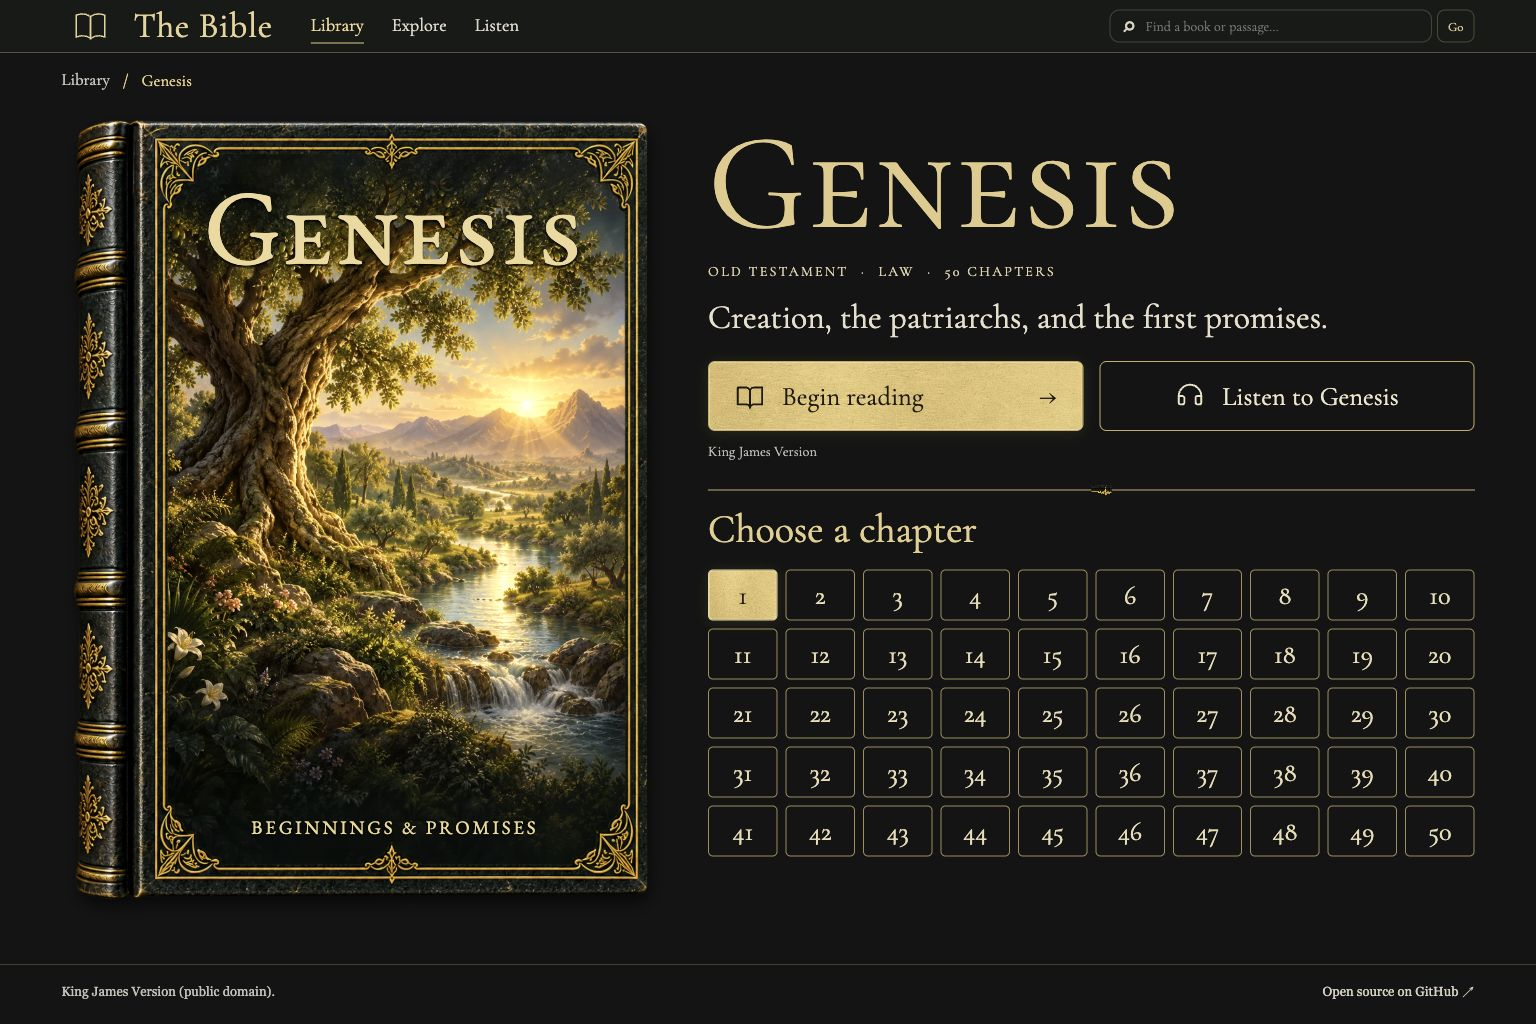
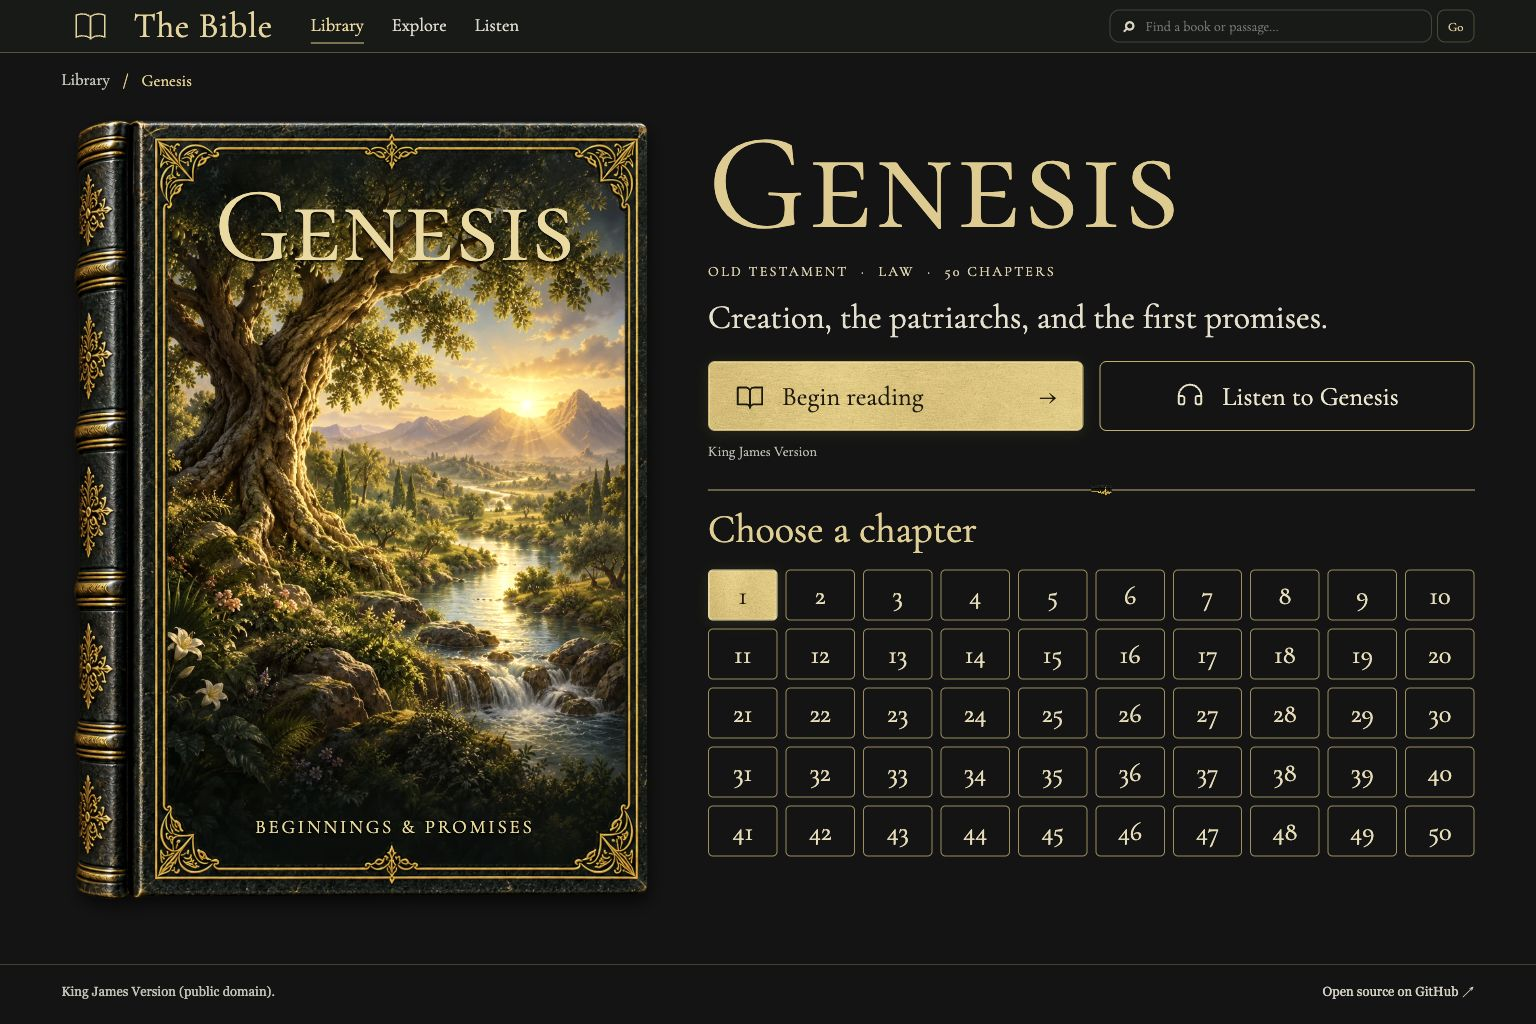
Fit every cover title with measured display-font advances

Changed region(s): [[0.125, 0.1875, 0.375, 0.2812], [0.1562, 0.7812, 0.3438, 0.8125]]

diff --git a/web/style.css b/web/style.css
@@ -242,3 +242,7 @@ body:has(.library-page),body:has(.book-page){background:#121413;color:#e9e2d4}.l
 .library-card .cover-title.medium-title,.book-volume .cover-title.medium-title{font-size:13.5cqw}.library-card .cover-title.long-title{font-size:10.5cqw}.book-volume .cover-title.long-title{font-size:10cqw}.book-title.medium-title{font-size:clamp(3.8rem,7.7vw,7.4rem)}
 @media(max-width:760px){.book-title.medium-title{font-size:clamp(2.5rem,10vw,4rem)}}
 .book-volume .cover-title.medium-title{font-size:13cqw}
+/* The insert width is fixed; title fitting uses measured glyph advances, not character count alone. */
+.book-volume .cover-title,.book-volume .cover-tagline{font-family:'Bible Display',Georgia,serif}
+.library-card .cover-title{font-size:min(16cqw,calc(69.5cqw / var(--cover-word-em,6)))}.library-card .cover-title.medium-title{font-size:min(13.5cqw,calc(69.5cqw / var(--cover-word-em,6)))}.library-card .cover-title.long-title{font-size:min(10.5cqw,calc(69.5cqw / var(--cover-word-em,6)))}
+.book-volume .cover-title{font-size:min(18cqw,calc(69.5cqw / var(--cover-word-em,6)))}.book-volume .cover-title.medium-title{font-size:min(13cqw,calc(69.5cqw / var(--cover-word-em,6)))}.book-volume .cover-title.long-title{font-size:min(10cqw,calc(69.5cqw / var(--cover-word-em,6)))}

diff --git a/src/library.rs b/src/library.rs
@@ -371,6 +371,19 @@ const CATEGORIES: &[(&str, &str)] = &[
     ("apocalyptic", "Apocalyptic"),
 ];
 
+// Measured longest-word em advances for the locally hosted display font.
+// Recalibrate with assets/imagegen/binding-typography.json if the typeface changes.
+const COVER_WORD_EM: [f64; 66] = [
+    3.394201, 3.244800, 4.234000, 3.985400, 6.275200, 3.117400, 2.970600, 2.404200, 3.328600,
+    3.328600, 2.537200, 2.537200, 5.276800, 5.276800, 2.142000, 4.560600, 3.135401, 1.441600,
+    3.128000, 4.159001, 5.703000, 4.046799, 2.849000, 4.066800, 6.308000, 3.319400, 3.107800,
+    2.826400, 1.886000, 2.418800, 3.970800, 2.725000, 2.923400, 3.249400, 4.694200, 4.882800,
+    3.362200, 4.922400, 3.963800, 4.264400, 2.528400, 2.175000, 2.150800, 2.188400, 3.514200,
+    5.757200, 5.757200, 4.706000, 4.427401, 5.119001, 5.051600, 6.648600, 6.648600, 3.865600,
+    3.865600, 2.434000, 4.340000, 3.936401, 2.489000, 2.575400, 2.575400, 2.150800, 2.150800,
+    2.150800, 1.991600, 5.185400,
+];
+
 fn selected(value: &str, current: &str) -> &'static str {
     if value == current {
         " selected"
@@ -487,7 +500,8 @@ pub(super) fn render_book(index: usize, client: bool) -> String {
         .expect("serializable KJV verses")
         .replace('<', "\\u003c");
     let mut html = format!(
-        r#"<section class="book-page" data-book-page data-book="{name}"><nav class="book-breadcrumb" aria-label="Breadcrumb"><a href="{home}">Library</a><span aria-hidden="true">/</span><span aria-current="page">{name}</span></nav><div class="book-layout"><div class="book-artwork"><div class="book-cover book-volume" role="img" aria-label="Illustrated {name} book cover"><img class="cover-art" src="/art/covers/{slug}.webp" alt="" width="768" height="1152" fetchpriority="high"><img class="cover-binding" src="/art/book-binding.webp" alt="" aria-hidden="true" width="1080" height="1440"><span class="cover-title{title_class}">{name}</span><span class="cover-tagline">{tagline}</span></div></div><div class="book-overview"><h1 class="book-title{title_class}">{name}</h1><p class="book-metadata">{testament} <span>·</span> {category} <span>·</span> {count} {chapter_word}</p><p class="book-introduction">{description}</p><div class="book-audio" data-read-aloud data-book-audio data-reference="{name}"><div class="book-actions"><a class="book-begin" href="{first}">{read_icon}<span>Begin reading</span><span aria-hidden="true">→</span></a><button type="button" class="book-listen" data-audio-action="play">{listen_icon}<span data-audio-label>Listen to {name}</span></button></div><p class="book-version">King James Version</p><div class="book-playback-settings" hidden><p data-audio-status role="status" aria-live="polite">Ready. Reads the KJV text only.</p><div class="book-playback-actions"><button type="button" data-audio-action="pause">Pause</button><button type="button" data-audio-action="stop">Stop</button><label>Speed<select data-audio-rate aria-label="Speech speed"><option value="0.75">0.75×</option><option value="1" selected>1×</option><option value="1.25">1.25×</option><option value="1.5">1.5×</option></select></label><label>Voice<select data-audio-voice aria-label="Voice"><option value="">Device default</option></select></label></div><small>Synthetic device voice. Reads Scripture only, from chapter 1 to the end of the book.</small></div><script type="application/json" data-book-scripture>{speech}</script></div><section class="book-chapters" aria-labelledby="chapter-heading"><h2 id="chapter-heading">Choose a chapter</h2><nav class="chs book-chapter-grid" aria-label="{name} chapters">"#,
+        r#"<section class="book-page" data-book-page data-book="{name}"><nav class="book-breadcrumb" aria-label="Breadcrumb"><a href="{home}">Library</a><span aria-hidden="true">/</span><span aria-current="page">{name}</span></nav><div class="book-layout"><div class="book-artwork"><div class="book-cover book-volume" role="img" aria-label="Illustrated {name} book cover"><img class="cover-art" src="/art/covers/{slug}.webp" alt="" width="768" height="1152" fetchpriority="high"><img class="cover-binding" src="/art/book-binding.webp" alt="" aria-hidden="true" width="1080" height="1440"><span class="cover-title{title_class}" style="--cover-word-em:{word_em}">{name}</span><span class="cover-tagline">{tagline}</span></div></div><div class="book-overview"><h1 class="book-title{title_class}">{name}</h1><p class="book-metadata">{testament} <span>·</span> {category} <span>·</span> {count} {chapter_word}</p><p class="book-introduction">{description}</p><div class="book-audio" data-read-aloud data-book-audio data-reference="{name}"><div class="book-actions"><a class="book-begin" href="{first}">{read_icon}<span>Begin reading</span><span aria-hidden="true">→</span></a><button type="button" class="book-listen" data-audio-action="play">{listen_icon}<span data-audio-label>Listen to {name}</span></button></div><p class="book-version">King James Version</p><div class="book-playback-settings" hidden><p data-audio-status role="status" aria-live="polite">Ready. Reads the KJV text only.</p><div class="book-playback-actions"><button type="button" data-audio-action="pause">Pause</button><button type="button" data-audio-action="stop">Stop</button><label>Speed<select data-audio-rate aria-label="Speech speed"><option value="0.75">0.75×</option><option value="1" selected>1×</option><option value="1.25">1.25×</option><option value="1.5">1.5×</option></select></label><label>Voice<select data-audio-voice aria-label="Voice"><option value="">Device default</option></select></label></div><small>Synthetic device voice. Reads Scripture only, from chapter 1 to the end of the book.</small></div><script type="application/json" data-book-scripture>{speech}</script></div><section class="book-chapters" aria-labelledby="chapter-heading"><h2 id="chapter-heading">Choose a chapter</h2><nav class="chs book-chapter-grid" aria-label="{name} chapters">"#,
+        word_em = COVER_WORD_EM[index],
         tagline = esc(detail.tagline),
         description = esc(detail.description),
         chapter_word = if count == 1 { "chapter" } else { "chapters" }
@@ -605,9 +619,9 @@ pub(super) fn render(params: &HashMap<String, String>, client: bool) -> String {
             };
             let cover = format!("/art/covers/{}.webp", book_slug(name));
             html.push_str(&format!(
-                "<article class=\"library-card\" data-book=\"{}\" data-index=\"{index}\" data-testament=\"{testament}\" data-category=\"{}\"><a class=\"book-cover\" href=\"{}\" aria-label=\"Read {}\"><img class=\"cover-art\" src=\"{}\" alt=\"\" loading=\"lazy\" width=\"768\" height=\"1152\"><img class=\"cover-binding\" src=\"/art/book-binding.webp\" alt=\"\" aria-hidden=\"true\" width=\"1080\" height=\"1440\"><h2 class=\"{}\">{}</h2><p class=\"cover-tagline\">{}</p></a><p class=\"book-description\">{}</p><p class=\"book-category\">{} · {category_label}</p><a class=\"book-read-link\" href=\"{}\">Read {} →</a></article>",
+                "<article class=\"library-card\" data-book=\"{}\" data-index=\"{index}\" data-testament=\"{testament}\" data-category=\"{}\"><a class=\"book-cover\" href=\"{}\" aria-label=\"Read {}\"><img class=\"cover-art\" src=\"{}\" alt=\"\" loading=\"lazy\" width=\"768\" height=\"1152\"><img class=\"cover-binding\" src=\"/art/book-binding.webp\" alt=\"\" aria-hidden=\"true\" width=\"1080\" height=\"1440\"><h2 class=\"{}\" style=\"--cover-word-em:{}\">{}</h2><p class=\"cover-tagline\">{}</p></a><p class=\"book-description\">{}</p><p class=\"book-category\">{} · {category_label}</p><a class=\"book-read-link\" href=\"{}\">Read {} →</a></article>",
                 esc(name), detail.category, esc(&route_path(&book_path, client)), esc(name),
-                cover, title_class, esc(name), esc(detail.tagline), esc(detail.description),
+                cover, title_class, COVER_WORD_EM[index], esc(name), esc(detail.tagline), esc(detail.description),
                 if testament == "old" { "Old Testament" } else { "New Testament" },
                 esc(&route_path(&chapter_path, client)), esc(name)
             ));

diff --git a/design-qa.md b/design-qa.md
@@ -10,6 +10,8 @@ Actual implementation: `docs/site-library.png` and `docs/site-book-page.png`, ca
 - P2: typography and header rhythm differed from the reference. Added locally hosted Cormorant Garamond, corrected the desktop header to 53px, aligned the Genesis book canvas to y=113px, refined cover titles, and added generated gold foil behind real buttons. The Library toolbar now sits above the visible desktop footer, matching the approved gallery hierarchy.
 - P2: fitting titles into the real front-cover area exposed overflow in several medium/long names at narrow widths. Separate medium/long title sizes corrected those cases. A final measured Revelation adjustment reduced the remaining 151px title to fit its 149px opening. All affected medium names were rechecked; broader final-candidate browser checks follow deployment.
 
+- P2: the first public run caught a wide short name (Numbers) in the large cover. Inspection also found an older scoped rule overriding its display font. Explicitly corrected the cover face and calibrated the longest word of all 66 names in the real loaded browser font. Rust now emits measured per-book advances and CSS caps their width to the insert. Fresh local checks of all 66 overviews at both 1536px and 320px passed (132 views, no clipping); this supersedes character-count-only fitting. Measurements and the font hash are in `assets/imagegen/binding-typography.json`.
+
 ## Required fidelity surfaces
 
 - Fonts/typography: Cormorant Garamond is used on the book surfaces, with real small-cap titles, serif descriptions, metadata, controls, and numbers. Medium/long names scale to the framed area. Taglines retain a readable minimum size on mobile.
